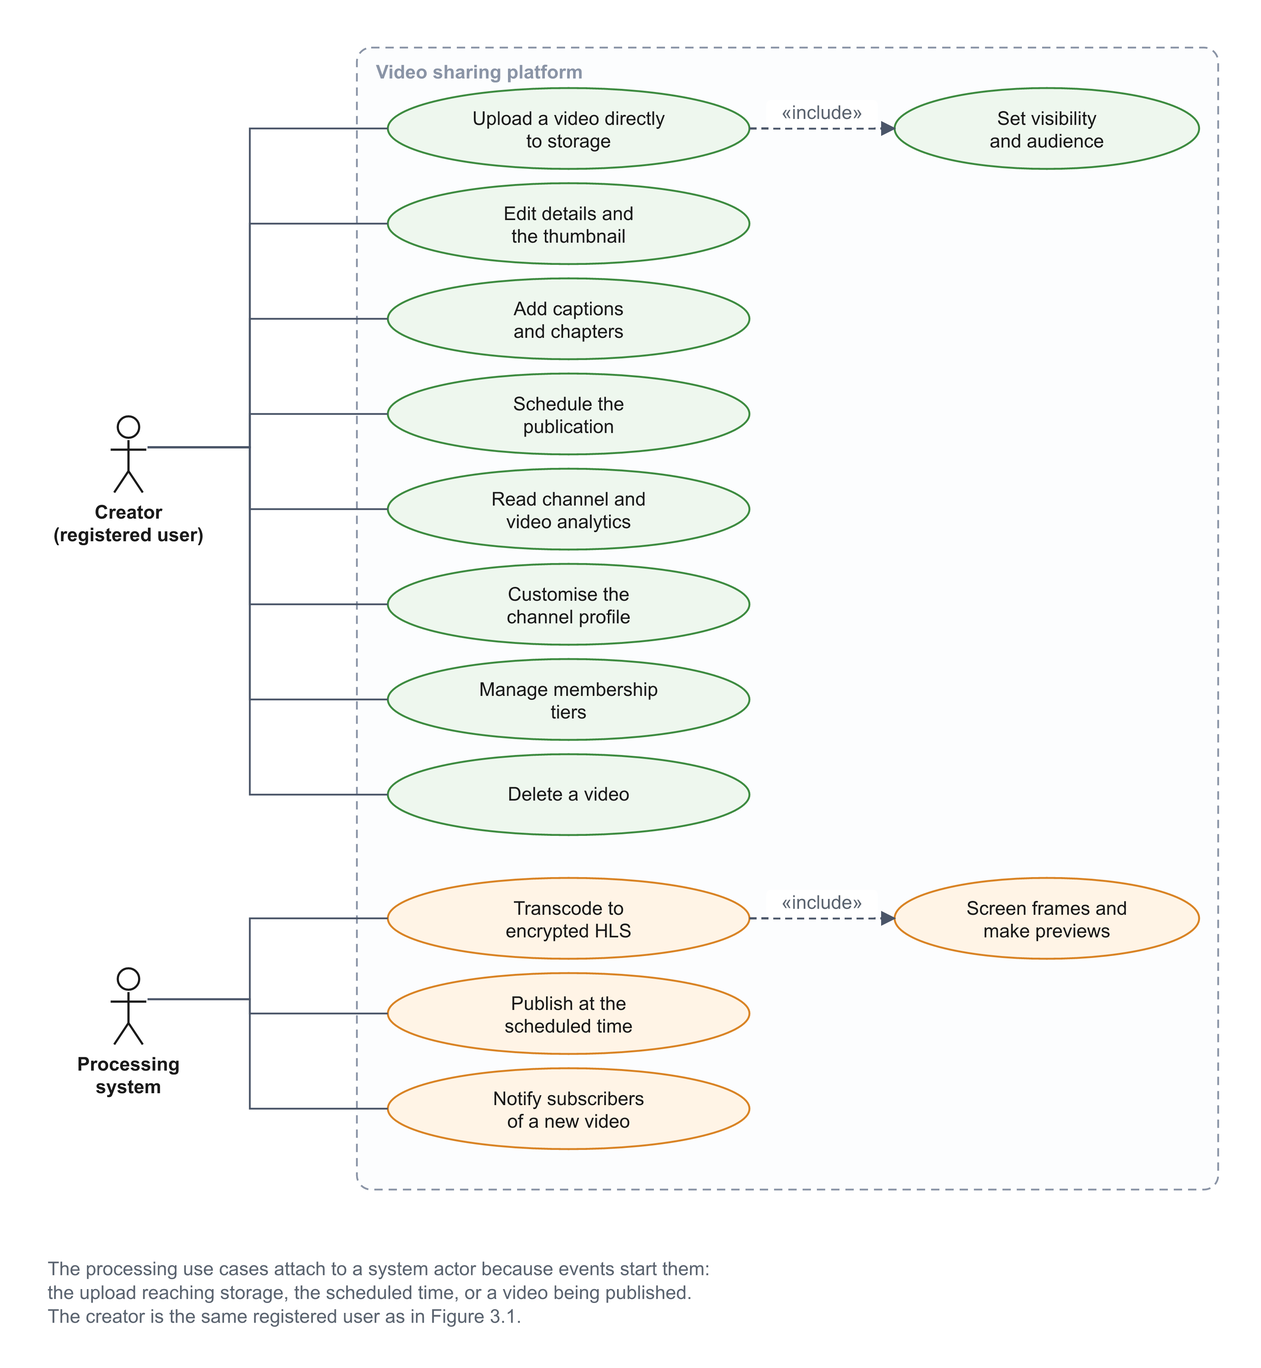
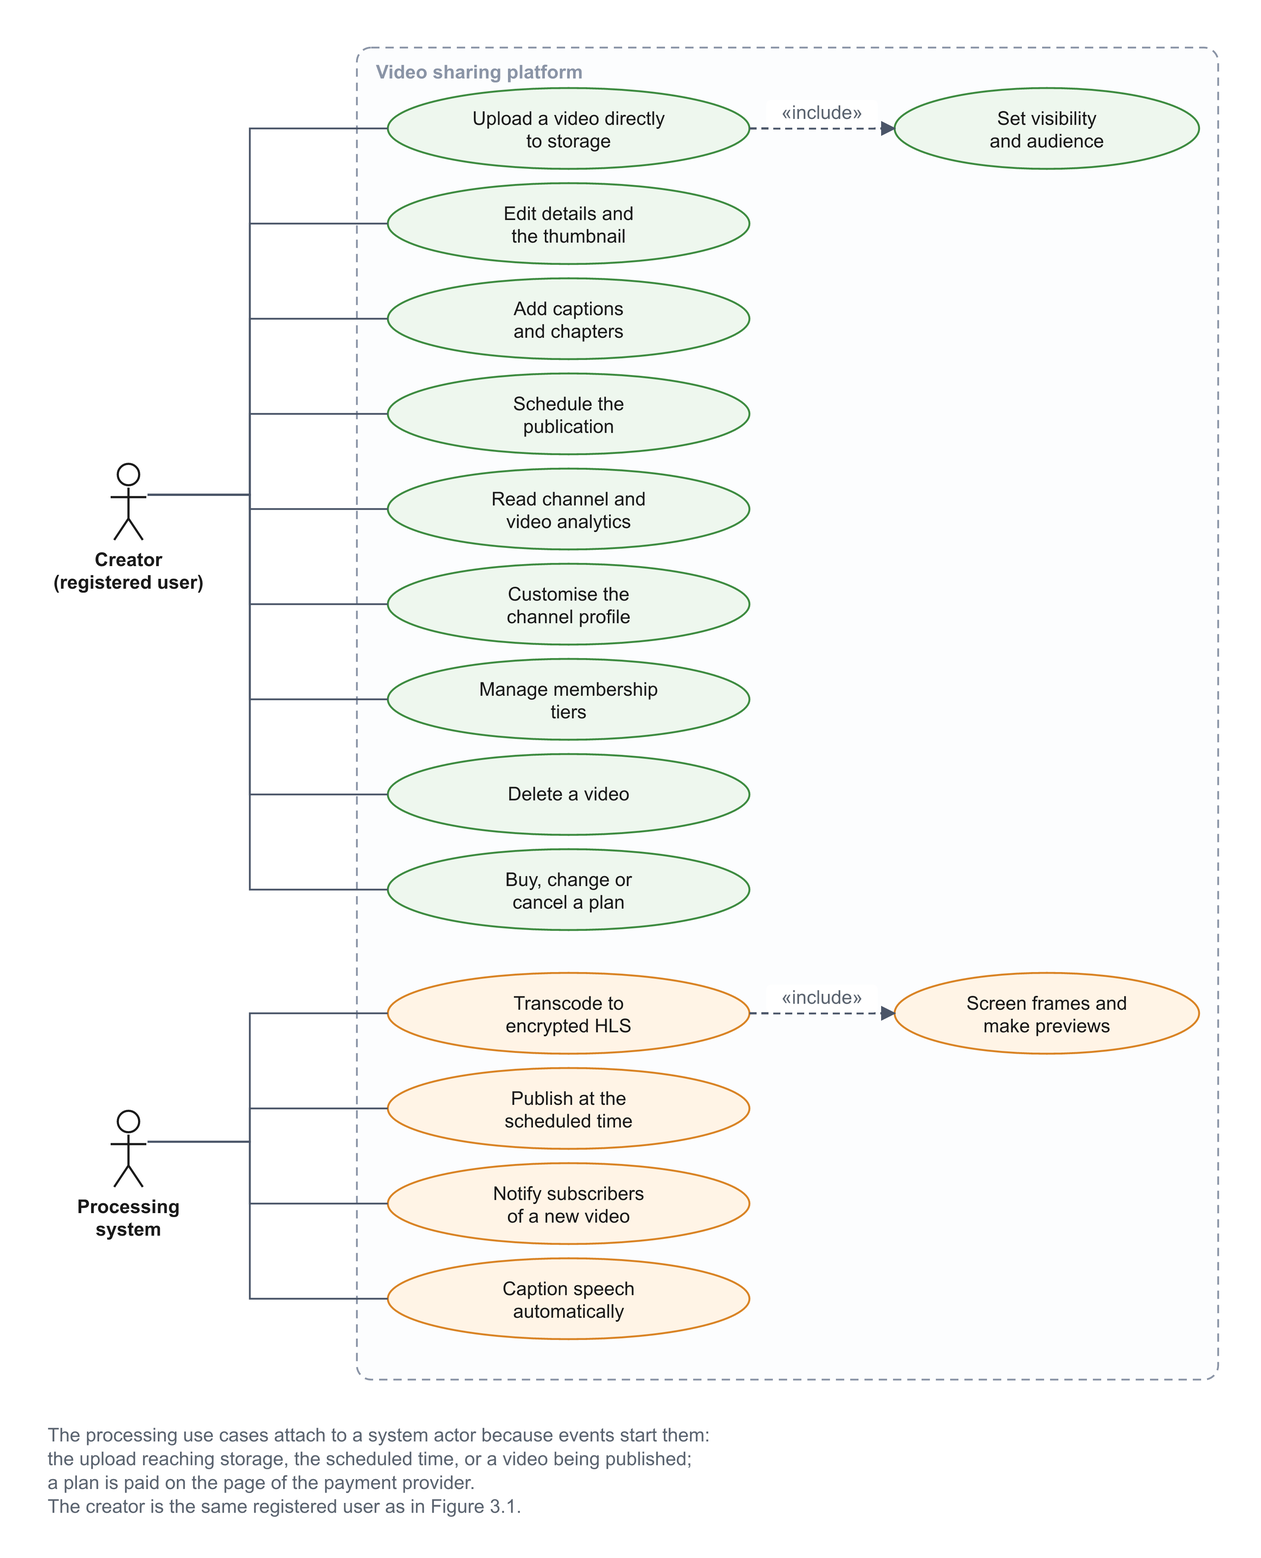
docs(report): add plan, payment and automatic-caption requirements to chapter 3
FR-24 to FR-26 and NFR-11 cover platform plans, Stripe checkout, automatic
captions, priority queues and the length limit by plan; FR-01, FR-03, FR-07,
FR-13 and FR-15 follow the new registration, upload, tier and analytics rules.
UC-21 and UC-22 specify buying a plan and automatic captions, and UC-01, UC-11,
UC-12, UC-14 and UC-15 gain the new alternative flows. Figure 3.2 shows the
two new use cases.

diff --git a/report/chapters/chap3.tex b/report/chapters/chap3.tex
@@ -24,11 +24,11 @@ that answer those needs.
 \midrule
 Anonymous visitor & Find and watch public videos at once, without an account, on any connection, in their language and a light or dark theme & FR-05, FR-06, FR-09, FR-17, NFR-01 \\
 Viewer (registered user) & Take part: react, comment, subscribe, join memberships, keep a library, receive notifications & FR-01, FR-02, FR-10 to FR-14 \\
-Creator (registered user) & Upload large files without waiting, decide who sees each video, edit and schedule it, earn members, read analytics & FR-03, FR-04, FR-06 to FR-08, FR-13, FR-15, FR-16, NFR-02, NFR-03 \\
+Creator (registered user) & Upload large files without waiting, decide who sees each video, edit and schedule it, earn members, read analytics; on a paid plan, larger and longer videos, automatic captions and faster processing & FR-03, FR-04, FR-06 to FR-08, FR-13, FR-15, FR-16, FR-24 to FR-26, NFR-02, NFR-03, NFR-11 \\
 Operator & A queue of what the screening held back or viewers reported, and a way to decide with a reason and resolve appeals & FR-18 to FR-21 \\
 Auditor & The error rates of the screening with their uncertainty, and a decision log that cannot be altered & FR-22 \\
 Administrator & Assign staff roles and draw random audit samples & FR-22, FR-23 \\
-Development team & A system that costs almost nothing while idle, is reproducible from code, observable and safe to change & NFR-04 to NFR-10 \\
+Development team & A system that costs almost nothing while idle, is reproducible from code, observable and safe to change & NFR-04 to NFR-11 \\
 \bottomrule
 \end{tabularx}
 \end{table}
@@ -64,13 +64,13 @@ an identifier so that it can be traced through the use cases, the design and the
 \toprule
 \textbf{ID} & \textbf{REQUIREMENT} & \textbf{DESCRIPTION} \\
 \midrule
-FR-01 & Accounts & Register with a display name, an e-mail address and a password, or sign in with Google, which also links to an existing account. A password must have at least eight characters and is refused when it is common, contains the user's own details or appears in a known breach. A new account must confirm its address before it may upload. Signing out ends every session of the account. \\
+FR-01 & Accounts & Register with a display name, an e-mail address, a password and a date of birth, after accepting the terms of use and the privacy policy, or sign in with Google, which also links to an existing account. A person under twelve cannot register. A password must have at least eight characters and is refused when it is common, contains the user's own details or appears in a known breach. A new account must confirm its address before it may upload. Signing out ends every session of the account. \\
 FR-02 & Password recovery and change & A reset link by e-mail, valid for one hour and usable once; a change from the settings page that requires the current password. \\
-FR-03 & Direct upload & The browser sends the file straight to Amazon S3: in one request up to 5~GiB, and in parts of 32~MiB up to 20~GiB, with progress, speed, remaining time and cancel. \\
+FR-03 & Direct upload & The browser sends the file straight to Amazon S3: in one request up to 5~GiB, and in parts of 32~MiB up to 20~GiB, with progress, speed, remaining time and cancel. The plan of the creator may set a lower size limit (FR-24). \\
 FR-04 & Automatic processing & Without any manual step, the source becomes an encrypted HLS package with up to six renditions from 144p to 1080p bounded by the source, a thumbnail and seek-preview images; long videos are split into chunks encoded in parallel, and the owner sees the progress of each step. \\
 FR-05 & Playback and sharing & An adaptive player with manual quality, speed, picture-in-picture, full screen, captions, chapters, seek preview and resume from the last position. A link can be shared with a start time, and public and unlisted videos can be embedded in another site. \\
 FR-06 & Visibility and audience & Each video is public, unlisted, private or password-protected, and may be limited to channel members from a chosen tier upward. A stranger learns nothing about a private video, not even that it exists. \\
-FR-07 & Creator studio & The owner edits the title, description, tags, category and thumbnail, uploads WebVTT captions, defines chapters and deletes a video with all its files. \\
+FR-07 & Creator studio & The owner edits the title, description, tags, category and thumbnail, uploads WebVTT captions or keeps the automatic ones (FR-25), defines chapters and deletes a video with all its files. \\
 FR-08 & Scheduled publishing & The owner chooses a publication time between five minutes and one year ahead; the video becomes public at that time. \\
 FR-09 & Discovery & A home feed of the newest videos, full-text search over videos and channels that tolerates typing errors and missing diacritics, suggestions while typing, categories, related videos, and a page per channel that lists its videos. \\
 \bottomrule
@@ -92,9 +92,9 @@ the library and the creator's channel.
 FR-10 & Community & Likes and dislikes, comments of up to 1000 characters with one level of replies; the creator pins one comment; authors and the creator delete comments. \\
 FR-11 & View counting & A view counts after thirty seconds of playback, or the whole of a shorter video, at most once per viewer and video in thirty minutes, and never for the owner. \\
 FR-12 & Subscriptions & Subscribe to a channel, see a feed of subscribed channels, and receive an in-app notification, and an e-mail unless turned off, when a subscribed channel publishes. \\
-FR-13 & Memberships & A channel offers up to five tiers; a viewer joins one for thirty days through a sandbox payment and may cancel; members get a badge and the videos limited to their tier. \\
+FR-13 & Memberships & A channel offers as many tiers as its owner's plan allows, from two to ten; a viewer joins one for thirty days through a sandbox payment and may cancel; members get a badge and the videos limited to their tier. \\
 FR-14 & Library & Watch history that can be cleared, a watch-later list, and ordered playlists that are public, unlisted or private. \\
-FR-15 & Analytics & Views per day, watch time and audience retention per video and per channel. \\
+FR-15 & Analytics & Views per day, watch time and audience retention per video and per channel, over the last 7, 28, 90 or 365 days as far as the plan allows. \\
 FR-16 & Channel profile & A unique handle, a description, an avatar and a banner, both screened before they are shown. \\
 FR-17 & Interface & Light and dark themes, Vietnamese and English, and dedicated pages for errors such as not found or forbidden. \\
 \bottomrule
@@ -119,6 +119,25 @@ FR-20 & Staff review & Operators approve or remove held and reported videos, and
 FR-21 & Appeals & The owner of a removed or held video appeals with a message; an operator upholds or rejects the appeal with a note. \\
 FR-22 & Accountability & Each decision is logged with the verdict the machine had reached, so that the error rates of the screening can be estimated: the share of automatic removals reversed on review, and the share of machine approvals that fail a random audit, each with a confidence interval; an auditor reads them but cannot decide. \\
 FR-23 & Role management & An administrator assigns the roles user, operator, auditor and administrator; the last administrator cannot be demoted, and every change is logged. \\
+\bottomrule
+\end{tabularx}
+\end{table}
+
+Table~\ref{tab:functional-requirements-plans} ends the list with the platform plans, which set how
+far each creator may use the costly parts of the system.
+
+\begin{table}[H]
+\centering
+\caption{Functional requirements of platform plans}
+\label{tab:functional-requirements-plans}
+\small
+\begin{tabularx}{\textwidth}{p{0.07\textwidth} p{0.2\textwidth} X}
+\toprule
+\textbf{ID} & \textbf{REQUIREMENT} & \textbf{DESCRIPTION} \\
+\midrule
+FR-24 & Plans and payment & Four plans, Free, Plus, Pro and Max, set the largest upload, the longest video, the number of membership tiers, the analytics window, the minutes of automatic captions and the processing priority. A user buys a paid plan monthly on a hosted checkout page, and changes or cancels it on a hosted portal; a paid plan stays until the end of the paid period. Accounts created before the plans existed keep the limits they had. \\
+FR-25 & Automatic captions & On a plan that includes them, a published video with sound gets captions in Vietnamese or English without any action of the owner, within the monthly minutes of the plan; a caption the owner uploads replaces the automatic one. \\
+FR-26 & Priority and length limits & When processing capacity is short, the videos of paid plans are served before those of the free plan; a video longer than the plan allows is refused after its duration is read, with the reason shown to the owner. \\
 \bottomrule
 \end{tabularx}
 \end{table}
@@ -157,6 +176,7 @@ NFR-07 & API security & Sign-in and other sensitive routes are rate-limited, onl
 NFR-08 & Reliability & A failed processing step is retried when a retry can succeed; otherwise the video is marked failed with a reason and an alert is sent. No video stays in processing for more than a day. \\
 NFR-09 & Reproducibility & Every environment is created from the same infrastructure code, with no manual changes. \\
 NFR-10 & Maintainability & A change reaches the main branch only after linting, type checks, tests and security scans pass. \\
+NFR-11 & Bounded paid services & A service billed per use beyond compute, such as speech recognition, cannot spend more than the plans allow: each user has a monthly cap that two simultaneous requests cannot both exceed, and work that fails gives its share back. Payments run in a test mode until real payments are allowed. \\
 \bottomrule
 \end{tabularx}
 \end{table}
@@ -192,7 +212,9 @@ viewer.
 Figure~\ref{fig:use-case-creator} shows the creator, who is the same registered user acting on their
 own channel, and the processing system. The processing system is drawn as an actor because events
 start its use cases, not a person: the upload reaching storage starts transcoding, the scheduled
-time starts publication, and a published video starts the notifications to subscribers.
+time starts publication, and a published video starts the notifications to subscribers and the
+automatic captions. Buying a plan is a use case of the creator; the payment itself happens on the
+page of the payment provider.
 
 \begin{figure}[htbp]
 \centering
@@ -215,9 +237,9 @@ owner of a removed video. Each staff use case is drawn once, at the role that ow
 \subsection{Use Case Specifications}
 \label{sec:use-case-specs}
 
-The use cases are specified in Tables~\ref{tab:uc-register} to \ref{tab:uc-role}. Closely related
+The use cases are specified in Tables~\ref{tab:uc-register} to \ref{tab:uc-auto-captions}. Closely related
 use cases of the diagrams are specified together, for example liking, commenting and replying, so
-that twenty specifications cover the diagrams. Each lists its actor, the requirements it serves, the
+that twenty-two specifications cover the diagrams. Each lists its actor, the requirements it serves, the
 main flow and the alternative flows, numbered after the step they branch from.
 
 \begin{table}[H]
@@ -233,13 +255,14 @@ Actor & Anonymous visitor \\
 Requirements & FR-01 \\
 Precondition & No account uses the chosen e-mail address. \\
 Main flow &
-  1. The visitor enters a display name, an e-mail address, a password and optionally a handle. \newline
+  1. The visitor enters a display name, an e-mail address, a password, a date of birth and optionally a handle, and accepts the terms of use and the privacy policy. \newline
   2. The server checks the password against the length rule, a list of common passwords, the visitor's own details and a breach service. \newline
   3. The server creates an unverified account, generating a handle from the address when none was given, and returns a session token. \newline
   4. The server e-mails a link carrying a token valid for 24 hours, of which only the hash is stored. \newline
   5. The visitor opens the link, and the server marks the address verified and spends the token. \\
 Alternative flows &
   1a. Five registrations from the same network address within an hour: the server answers 429. \newline
+  1b. The date of birth is invalid, or the visitor is under twelve: the server answers 400 or 403 and creates nothing. \newline
   2a. The password is refused: the server answers 400 with the reason, which the form shows. \newline
   3a. The address or the requested handle is taken: the server answers 409. \newline
   4a. Three links already went to the address this hour: the account is created and the mail is skipped. \newline
@@ -516,7 +539,7 @@ Table~\ref{tab:usecase-upload}, and the other work of a creator in Tables~\ref{t
 \textbf{FIELD} & \textbf{CONTENT} \\
 \midrule
 Actor & Creator \\
-Requirements & FR-03, FR-04, FR-06 \\
+Requirements & FR-03, FR-04, FR-06, FR-24, FR-26 \\
 Precondition & The creator is signed in with a verified address. \\
 Main flow &
   1. The creator selects a file and chooses the title, description and visibility. \newline
@@ -527,9 +550,11 @@ Main flow &
 Alternative flows &
   2a. The address is not verified: the server answers 403, and the page offers to send the link again. \newline
   2b. The file is larger than 20~GiB or not a supported video type: the server answers 400 before creating anything. \newline
+  2d. The file is larger than the plan of the creator allows: the server answers 403 with the limit, and the page links to the plans. \newline
   2c. More than twenty uploads in an hour: the server answers 429. \newline
   3a. The file is larger than 5~GiB: the server opens a multipart upload, the browser asks for grants for parts of 32~MiB and sends them, and the completion call assembles the parts from the list that S3 itself keeps, refusing missing or wrong-sized parts. \newline
-  3b. The creator cancels: the multipart upload, the stored data and the draft are removed. \\
+  3b. The creator cancels: the multipart upload, the stored data and the draft are removed. \newline
+  5a. The video is longer than the plan allows: processing stops after the duration is read, before any encoding, and the studio shows the video as failed with the reason. \\
 Postcondition & The video is being processed. \\
 \bottomrule
 \end{tabularx}
@@ -545,19 +570,20 @@ Postcondition & The video is being processed. \\
 \textbf{FIELD} & \textbf{CONTENT} \\
 \midrule
 Actor & Creator \\
-Requirements & FR-06, FR-07, FR-15 \\
+Requirements & FR-06, FR-07, FR-15, FR-25 \\
 Precondition & The creator is signed in and owns the video. \\
 Main flow &
   1. The studio lists the creator's videos with status, views and visibility, including those still processing. \newline
   2. The creator edits the title, description, tags, category, visibility, audience and minimum tier, and uploads a custom thumbnail. \newline
   3. The creator uploads WebVTT captions per language and defines chapters. \newline
-  4. The creator reads the analytics: views per day, watch time and retention. \newline
+  4. The creator reads the analytics, views per day, watch time and retention, over a period of 7, 28, 90 or 365 days. \newline
   5. The creator deletes a video; the server removes the record first, then its comments, reactions and playlist entries, and finally the source, the renditions and the key. \\
 Alternative flows &
   2a. Switching to password protection without a password: the server answers 400. \newline
   2b. Limiting to members without any tier: the server answers 400. \newline
   2c. The custom thumbnail is not a JPEG or PNG image of at most 2~MiB, or fails screening: the server refuses it. \newline
   3a. The chapters break the rules, which ask for at least three, the first at 0:00 and each at least ten seconds long: the server answers 400. \newline
+  4a. The period is longer than the plan allows: the longer choices are shown locked with a link to the plans. \newline
   5a. The video is still uploading: the upload is aborted instead. \\
 Postcondition & The watch page and the listings reflect the change. \\
 \bottomrule
@@ -612,7 +638,7 @@ Alternative flows &
   1a. The handle is reserved or already taken: the server answers 409. \newline
   2a. The image is too large or of another type: the server answers 400. \newline
   2b. The image breaks the content rules: the server answers 403 and the current image stays. \newline
-  3a. The channel already has five tiers: the server answers 409. \\
+  3a. The channel already has as many tiers as the plan allows: the server answers 409. \\
 Postcondition & The channel page shows the profile and offers the tiers. \\
 \bottomrule
 \end{tabularx}
@@ -631,16 +657,17 @@ starts.
 \textbf{FIELD} & \textbf{CONTENT} \\
 \midrule
 Actor & Processing system \\
-Requirements & FR-04, FR-18, NFR-02, NFR-03, NFR-08 \\
+Requirements & FR-04, FR-18, FR-26, NFR-02, NFR-03, NFR-08 \\
 Precondition & A source file has arrived in the raw bucket. \\
 Main flow &
   1. Amazon S3 emits an event, which Amazon SQS buffers. \newline
   2. A function reads the metadata of the object and starts a workflow execution named after the video and its upload version. \newline
-  3. The workflow marks the video as processing, creates its encryption key and probes the source. \newline
+  3. The workflow marks the video as processing, reads the plan of the owner, which chooses the priority or the standard queues and the longest duration allowed, creates the encryption key and probes the source. \newline
   4. In parallel, one job screens sampled frames and makes the thumbnail and seek-preview images, while the encoding runs as one job for a video of up to five minutes, or as an audio job and parallel chunk jobs followed by a stitching step for a longer one. \newline
   5. The workflow publishes the video as ready, or as scheduled, with the result of the screening, and the subscribers are notified. \\
 Alternative flows &
   2a. The same event arrives twice: the second execution is refused by name, and nothing more happens. \newline
+  3a. The probed duration is longer than the plan allows: the video becomes \status{error} with the reason, no job is submitted and no alert is sent. \newline
   4a. A job fails for a reason that may pass, such as a reclaimed Spot task: it is retried, up to three attempts. \newline
   4b. A job fails for a reason that another attempt cannot fix, such as an unreadable source: the video becomes \status{error} with the reason, the owner is told once, and an alert is sent. \newline
   4c. The screening cannot run: the video is held for review. \newline
@@ -779,6 +806,68 @@ Main flow &
 Alternative flows &
   2a. The change would demote the last administrator: the server answers 409. \\
 Postcondition & The role is changed, and the change is logged. \\
+\bottomrule
+\end{tabularx}
+\end{table}
+
+The last two use cases come from the platform plans: buying a plan (Table~\ref{tab:uc-plan}) and
+the automatic captions that a paid plan brings (Table~\ref{tab:uc-auto-captions}).
+
+\begin{table}[H]
+\centering
+\caption{Use case UC-21: buy, change or cancel a plan}
+\label{tab:uc-plan}
+\small
+\begin{tabularx}{\textwidth}{p{0.2\textwidth} X}
+\toprule
+\textbf{FIELD} & \textbf{CONTENT} \\
+\midrule
+Actors & Registered user; payment provider \\
+Requirements & FR-24, NFR-11 \\
+Precondition & The user is signed in with a verified address and is on the free plan. \\
+Main flow &
+  1. The user compares the four plans with their prices and limits and chooses Plus, Pro or Max. \newline
+  2. The server opens a checkout session for that plan and returns its address; the browser goes to the hosted payment page. \newline
+  3. The user pays, and the payment provider returns the browser to the settings page. \newline
+  4. The payment provider sends a signed event to the server, which checks the signature, applies the event once and sets the plan of the user. \newline
+  5. The new limits apply to the next upload, video and caption. \\
+Alternative flows &
+  2a. The address is not verified: the server answers 403. \newline
+  2b. The user already has a paid plan: the server answers 409, and the page offers the billing portal. \newline
+  3a. The user leaves the payment page: nothing changes. \newline
+  4a. The same event arrives twice, or an older event after a newer one: it changes nothing. \newline
+  4b. A renewal payment fails: the plan is marked past due and stays until the paid period ends. \newline
+  5a. The user changes or cancels the plan on the hosted portal: the change arrives as an event, and a cancelled plan lasts until the end of the period. \\
+Postcondition & The plan of the user is the one the payment provider reports. \\
+\bottomrule
+\end{tabularx}
+\end{table}
+
+\begin{table}[H]
+\centering
+\caption{Use case UC-22: caption a video automatically}
+\label{tab:uc-auto-captions}
+\small
+\begin{tabularx}{\textwidth}{p{0.2\textwidth} X}
+\toprule
+\textbf{FIELD} & \textbf{CONTENT} \\
+\midrule
+Actor & Processing system \\
+Requirements & FR-25, NFR-11 \\
+Precondition & A video has been published, and the plan of its owner includes automatic captions. \\
+Main flow &
+  1. The publication event reaches the caption function. \newline
+  2. The function checks the plan, the length of the video and the minutes left this month, and reserves the minutes of the video. \newline
+  3. It starts one speech recognition job on the source, which picks Vietnamese or English. \newline
+  4. When the job ends, the function copies the WebVTT file next to the video as a caption track marked automatic. \newline
+  5. The player offers the new track the next time the video is opened. \\
+Alternative flows &
+  2a. The video has no sound, is longer than the plan allows for captions, is larger than 2~GB or already has a caption from the owner: nothing is started and nothing is spent. \newline
+  2b. The minutes left are not enough: nothing is started. \newline
+  2c. The same event arrives twice: the second job is refused by name. \newline
+  4a. The job fails: the reserved minutes are given back. \newline
+  4b. The owner uploads a caption in the same language later: it replaces the automatic one. \\
+Postcondition & The video has an automatic caption track, or nothing was spent. \\
 \bottomrule
 \end{tabularx}
 \end{table}
